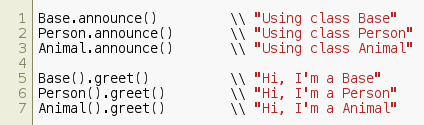
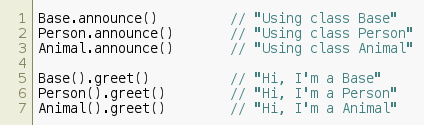
[dasper] Add code images for 2016-07-08 post

Changed region(s): [[0.5212, 0.096, 0.9811, 0.456], [0.5212, 0.576, 0.9505, 0.936]]

diff --git a/assets/media/snippets/posts/2016-07-08/swift-8.swift b/assets/media/snippets/posts/2016-07-08/swift-8.swift
@@ -3,17 +3,6 @@ func objectGreeting<T: Base>(classType: T.Type) -> String {
   return classType.init().greet()
 }
 
-objectGreeting(Base.self)           \\ "Hi, I'm a Base"
-objectGreeting(Person.self)         \\ "Hi, I'm a Person"
-objectGreeting(Animal.self)         \\ "Hi, I'm a Animal"
-```
-
-Lúc này, khi gọi hàm `objectGreeting()` với các tham số lần lượt là `Base.self`, `Person.self` & `Animal.self`, ta sẽ nhận được các *lời chào* tương ứng.
-
-Có 1 điểm đặc biệt ở đây, là do việc tạo 1 object `classType.init()` đang sử dụng dạng **dynamic** thay vì `Base()`, `Person()` hay `Animal()` thông thường, **Swift** yêu cầu chúng ta phải định nghĩa hàm `required init()` và sử dụng `classType.init()` thay vì `classType()` như bình thường:
-
-```swift
-class Base: NSObject {
-  required override init() {}
-  ...
-}
+objectGreeting(Base.self)           // "Hi, I'm a Base"
+objectGreeting(Person.self)         // "Hi, I'm a Person"
+objectGreeting(Animal.self)         // "Hi, I'm a Animal"

diff --git a/assets/media/snippets/posts/2016-07-08/swift-7.swift b/assets/media/snippets/posts/2016-07-08/swift-7.swift
@@ -1,7 +1,7 @@
-Base.announce()         \\ "Using class Base"
-Person.announce()       \\ "Using class Person"
-Animal.announce()       \\ "Using class Animal"
+Base.announce()         // "Using class Base"
+Person.announce()       // "Using class Person"
+Animal.announce()       // "Using class Animal"
 
-Base().greet()          \\ "Hi, I'm a Base"
-Person().greet()        \\ "Hi, I'm a Person"
-Animal().greet()        \\ "Hi, I'm a Animal"
+Base().greet()          // "Hi, I'm a Base"
+Person().greet()        // "Hi, I'm a Person"
+Animal().greet()        // "Hi, I'm a Animal"

diff --git a/assets/media/snippets/posts/2016-07-08/swift-9.swift b/assets/media/snippets/posts/2016-07-08/swift-9.swift
@@ -1,0 +1,4 @@
+class Base: NSObject {
+  required override init() {}
+  // ...
+}

diff --git a/_posts/2016-07-08-swift-generics.md b/_posts/2016-07-08-swift-generics.md
@@ -28,6 +28,11 @@ func max(number1: Double, _ number2: Double) -> Double {
 max(1, 2)               // 2
 max(2.8, 1.5)           // 2.8
 ```
+{% include figure.html
+   filename="/assets/media/snippets/images/2016-07-08/swift-1.png"
+   alt="Swift code snippet 1"
+   caption="Khai báo các hàm max"
+   instant_articles="true" %}
 
 Mặc dù phải định nghĩa nhiều hàm như vậy, nhưng đến lúc gọi hàm, ta chỉ gọi duy nhất 1 lần `max()` cho từng kiểu dữ liệu. Với **Generics**, chúng ta có thể rút ngắn sự phiền toán này lại.
 
@@ -43,6 +48,11 @@ func genericsMax<T: Comparable>(number1: T, _ number2: T) -> T {
 genericsMax(1, 2)       // 2
 genericsMax(2.8, 1.5)   // 2.8
 ```
+{% include figure.html
+   filename="/assets/media/snippets/images/2016-07-08/swift-2.png"
+   alt="Swift code snippet 2"
+   caption="Khai báo các hàm generics"
+   instant_articles="true" %}
 
 Như vậy, bằng cú pháp khai báo `<T: Comparable>` ngay sau tên hàm `genericsMax`, ta có thể sử dụng `T` như 1 kiểu dữ liệu hợp lệ. Tuy nhiên, do các phép so sánh (`>`, `>=`, `<`, `<=` và `=`) không áp dụng cho mọi kiểu dữ liệu, nên ta cần *hạn chế* bớt các trường hợp có thể của `T` lại.
 
@@ -53,6 +63,11 @@ func genericsMax<T where T: Comparable>(number1: T, _ number2: T) -> T {
   return number1 > number2 ? number1 : number2
 }
 ```
+{% include figure.html
+   filename="/assets/media/snippets/images/2016-07-08/swift-3.png"
+   alt="Swift code snippet 3"
+   caption="Khai báo constrains dạng đầy đủ"
+   instant_articles="true" %}
 
 tức là ta muốn khai báo hàm `genericsMax()` sẽ làm việc trên 1 kiểu **Generics** là `T`, nhưng `T` chỉ nằm trong những kiểu có **conform protocol** tên là `Comparable`. Việc này đồng nghĩa với khi gọi `genericsMax("1", "2")` thì vẫn được, nhưng gọi `genericsMax([1], [2])` thì sẽ báo lỗi **Cannot invoke 'genericsMax' with an argument list of type ([Int], [Int])**
 
@@ -71,6 +86,11 @@ func genericsMax<T: Comparable>(number1: T, _ number2: T) -> T {
   return number1 > number2 ? number1 : number2
 }
 ```
+{% include figure.html
+   filename="/assets/media/snippets/images/2016-07-08/swift-4.png"
+   alt="Swift code snippet 4"
+   caption="Xử lý kiểu dữ liệu khác nhau"
+   instant_articles="true" %}
 
 Trong trường hợp này, chúng ta kiểu tra xem `T` có phải là `Double` hay không, nếu đúng thì in ra 1 dòng **Compare Double numbers _number1_ & _number2_**.
 
@@ -84,6 +104,11 @@ let result: Double = genericsMax(1, 2)
 // Alternatively
 genericsMax(1, 2) as Double
 ```
+{% include figure.html
+   filename="/assets/media/snippets/images/2016-07-08/swift-5.png"
+   alt="Swift code snippet 5"
+   caption="Ép kiểu khi gọi hàm generics"
+   instant_articles="true" %}
 
 Do ta khai báo kiểu trả về của `genericsMax()` cũng là `T`, nên nếu ta thông báo với trình biên dịch là ta muốn trả về kiểu `Double` thì trong thân hàm, `T` sẽ nhận kiểu `Double`
 
@@ -113,20 +138,30 @@ class Person: Base {
 class Animal: Base {
 }
 ```
+{% include figure.html
+   filename="/assets/media/snippets/images/2016-07-08/swift-6.png"
+   alt="Swift code snippet 6"
+   caption="Khai báo kiểu dữ liệu kế thừa"
+   instant_articles="true" %}
 
 Ta có 3 class `Base`, `Person` và `Animal`. Đây là 1 ví dụ điển hình để demo các tính năng **kế thừa** của 1 ngôn ngữ **Hướng đối tượng** (*Object-Oriented Programming*). Ở đây chúng ta sẽ chỉ xét đến khả năng sử dụng các kiểu dữ liệu `Base`, `Person`, `Animal` như biến số.
 
 Tại `Base`, ta định nghĩa 1 **class function** là `announce()`, có nhiệm vụ trả ra 1 `String` cho biết chúng ta đang sử dụng kiểu dữ liệu nào, và 1 **instance function** tên là `greet()` cũng có nhiệm vụ trả ra 1 `String`, nhưng là 1 *lời chào* từ chính kiểu dữ liệu đó:
 
 ```swift
-Base.announce()         \\ "Using class Base"
-Person.announce()       \\ "Using class Person"
-Animal.announce()       \\ "Using class Animal"
+Base.announce()         // "Using class Base"
+Person.announce()       // "Using class Person"
+Animal.announce()       // "Using class Animal"
 
-Base().greet()          \\ "Hi, I'm a Base"
-Person().greet()        \\ "Hi, I'm a Person"
-Animal().greet()        \\ "Hi, I'm a Animal"
+Base().greet()          // "Hi, I'm a Base"
+Person().greet()        // "Hi, I'm a Person"
+Animal().greet()        // "Hi, I'm a Animal"
 ```
+{% include figure.html
+   filename="/assets/media/snippets/images/2016-07-08/swift-7.png"
+   alt="Swift code snippet 7"
+   caption="Lệnh gọi các hàm giống nhau từ các class kế thừa"
+   instant_articles="true" %}
 
 Giờ giả sử ta có 1 hàm **Generics** tên là `objectGreeting()`, nhận vào 1 tham số `classType` là 1 trong 3 kiểu `Base`, `Person` & `Animal`, có nhiệm vụ: với mỗi kiểu giá trị tương ứng thì tạo 1 **instance** và gọi hàm `greet()`.
 
@@ -136,10 +171,15 @@ func objectGreeting<T: Base>(classType: T.Type) -> String {
   return classType.init().greet()
 }
 
-objectGreeting(Base.self)           \\ "Hi, I'm a Base"
-objectGreeting(Person.self)         \\ "Hi, I'm a Person"
-objectGreeting(Animal.self)         \\ "Hi, I'm a Animal"
+objectGreeting(Base.self)           // "Hi, I'm a Base"
+objectGreeting(Person.self)         // "Hi, I'm a Person"
+objectGreeting(Animal.self)         // "Hi, I'm a Animal"
 ```
+{% include figure.html
+   filename="/assets/media/snippets/images/2016-07-08/swift-8.png"
+   alt="Swift code snippet 8"
+   caption="Sử dụng hàm objectGreeting"
+   instant_articles="true" %}
 
 Lúc này, khi gọi hàm `objectGreeting()` với các tham số lần lượt là `Base.self`, `Person.self` & `Animal.self`, ta sẽ nhận được các *lời chào* tương ứng.
 
@@ -148,9 +188,14 @@ Có 1 điểm đặc biệt ở đây, là do việc tạo 1 object `classType.i
 ```swift
 class Base: NSObject {
   required override init() {}
-  ...
+  // ...
 }
 ```
+{% include figure.html
+   filename="/assets/media/snippets/images/2016-07-08/swift-9.png"
+   alt="Swift code snippet 9"
+   caption="Định nghĩa hàm required init"
+   instant_articles="true" %}
 
 Các bạn có thể tải về file [Generics.playground][attachment] để cùng xem các ví dụ về **Generics** đã trình bày trong bài.
 
